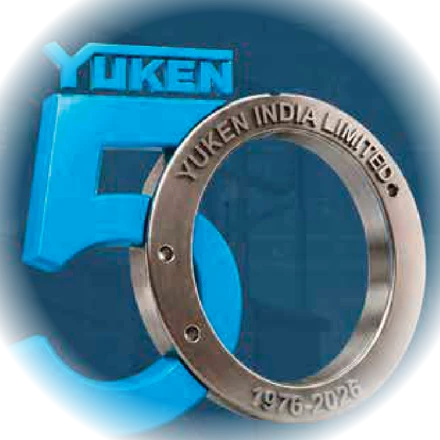
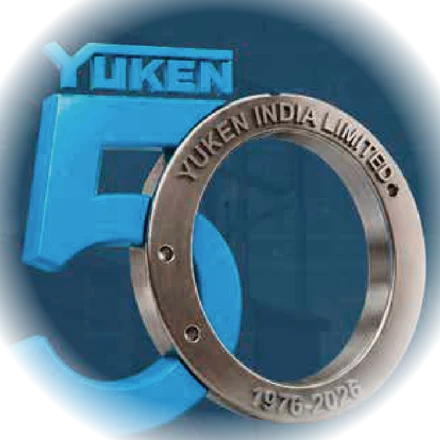
Login hero: darker tone, more generous margins, no clipped content
Owner reviewed the first pass against a reference cover design (an
existing Yuken Annual Report cover using the same badge artwork) and
called out that the panel still didn't match: too bright/saturated
compared to the reference's darker, more cohesive tone, and not
generous enough with margin around the badge.

Two real bugs found while matching it:
- First attempt at removing the visible panel edge used a plain
  radial-gradient feather over the full crop. Any feather aggressive
  enough to fully hide the background texture also clipped real
  content, since the trimmed crop has the YUKEN wordmark and the
  ring's "1976-2026" text running close to the image edges already —
  reproduced by rendering the composite and visually confirming
  clipped strokes at 55-66% radius stops.
- A rounded-rect blurred-edge mask avoided clipping but reintroduced
  a visible box (just with soft corners instead of sharp ones) —
  same complaint, different edge treatment.

Fixed by keeping the original wider feather (stops at 55%/78%, proven
not to clip anything) and instead addressing brightness/mood: darker
gradient (navy-900 to navy-950, was navy-800 to navy-950), the badge
itself pulled down slightly in brightness/saturation via sharp
.modulate(), and more top/bottom padding around both the badge and
the tagline.

Verified: tsc --noEmit clean, ESLint clean, 33 of 33 tests passed.
Live-checked on the local preview build.

diff --git a/app/globals.css b/app/globals.css
@@ -5,9 +5,9 @@
 *{box-sizing:border-box}html{min-height:100%;background:var(--navy-950)}body{margin:0;min-height:100%;color:var(--ink);font-family:-apple-system,BlinkMacSystemFont,"Segoe UI",Roboto,Arial,sans-serif;background:var(--navy-950)}button,input,select,textarea{font:inherit}button{cursor:pointer}button:focus-visible,input:focus-visible,select:focus-visible,textarea:focus-visible{outline:3px solid var(--blue-500);outline-offset:3px}
 .loginPage{min-height:100svh;display:grid;place-items:center;padding:16px;background:#0c1723}
 .loginShell{width:min(430px,100%);height:min(860px,calc(100svh - 32px));min-height:560px;display:flex;flex-direction:column;overflow:hidden;border:1px solid rgba(225,199,127,.32);border-radius:36px;background:linear-gradient(180deg,#071e36,#06192c);box-shadow:0 28px 78px rgba(0,0,0,.38)}
-.loginArtwork{position:relative;flex:1 1 60%;min-height:0;display:flex;flex-direction:column;align-items:center;justify-content:center;gap:4px;margin:10px 10px 0;overflow:hidden;border:1px solid rgba(240,214,139,.8);border-radius:26px 26px 16px 16px;background:linear-gradient(135deg,var(--navy-800),var(--navy-950));box-shadow:0 14px 30px rgba(0,0,0,.22)}
-.loginArtwork img{width:100%;flex:1 1 auto;min-height:0;display:block;object-fit:contain;padding:12px 16% 0}
-.loginTagline{flex:0 0 auto;margin:0;padding:0 22px 16px;color:var(--blue-500);text-align:center;font-size:clamp(12px,3.4vw,14px);font-weight:800;letter-spacing:.02em;line-height:1.4}
+.loginArtwork{position:relative;flex:1 1 60%;min-height:0;display:flex;flex-direction:column;align-items:center;justify-content:center;gap:4px;margin:10px 10px 0;overflow:hidden;border:1px solid rgba(240,214,139,.8);border-radius:26px 26px 16px 16px;background:linear-gradient(160deg,var(--navy-900),var(--navy-950));box-shadow:0 14px 30px rgba(0,0,0,.22)}
+.loginArtwork img{width:100%;flex:1 1 auto;min-height:0;display:block;object-fit:contain;padding:20px 13% 4px}
+.loginTagline{flex:0 0 auto;margin:0;padding:0 26px 24px;color:var(--blue-500);text-align:center;font-size:clamp(12px,3.4vw,14px);font-weight:800;letter-spacing:.02em;line-height:1.4}
 .loginPanel{flex:0 0 auto;min-height:0;padding:10px 18px calc(14px + env(safe-area-inset-bottom));color:var(--white)}
 .loginPanel .loginMark{margin-bottom:6px;color:var(--blue-500);font-size:11px}
 .loginPanel .loginMark b{color:var(--gold-300);font:20px Georgia,serif}
